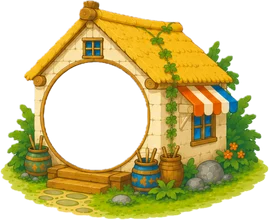
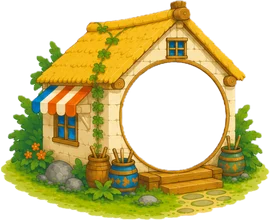
노란집(artisthouse) 좌우 반전판으로 교체 — 구멍 좌표 재실측 (cx 35.5→64.3)
Claude-Session: https://claude.ai/code/session_018maNuYqDfFyRSe9uKpZhPR

diff --git a/src/components/AdventureMap.jsx b/src/components/AdventureMap.jsx
@@ -25,7 +25,7 @@ const BUILDINGS = [
   { src: "assets/map-bld-junglehut.webp",   cx: 48.4, cy: 53.6, d: 39.1, k: 0.92 },
   { src: "assets/map-bld-tileroof.webp",    cx: 36.7, cy: 54.3, d: 37.5, k: 0.98 },
   { src: "assets/map-bld-greenroof.webp",   cx: 42.3, cy: 52.5, d: 39.6, k: 0.99 },
-  { src: "assets/map-bld-artisthouse.webp", cx: 35.5, cy: 52.5, d: 37.9, k: 1.0 },
+  { src: "assets/map-bld-artisthouse.webp", cx: 64.3, cy: 52.7, d: 37.8, k: 1.0 },  // 좌우 반전판 (구멍 우측)
 ];
 
 // 폴리라인 누적 길이 → t(0~1)로 좌표 보간하는 함수 생성 (지도별로 각각)
